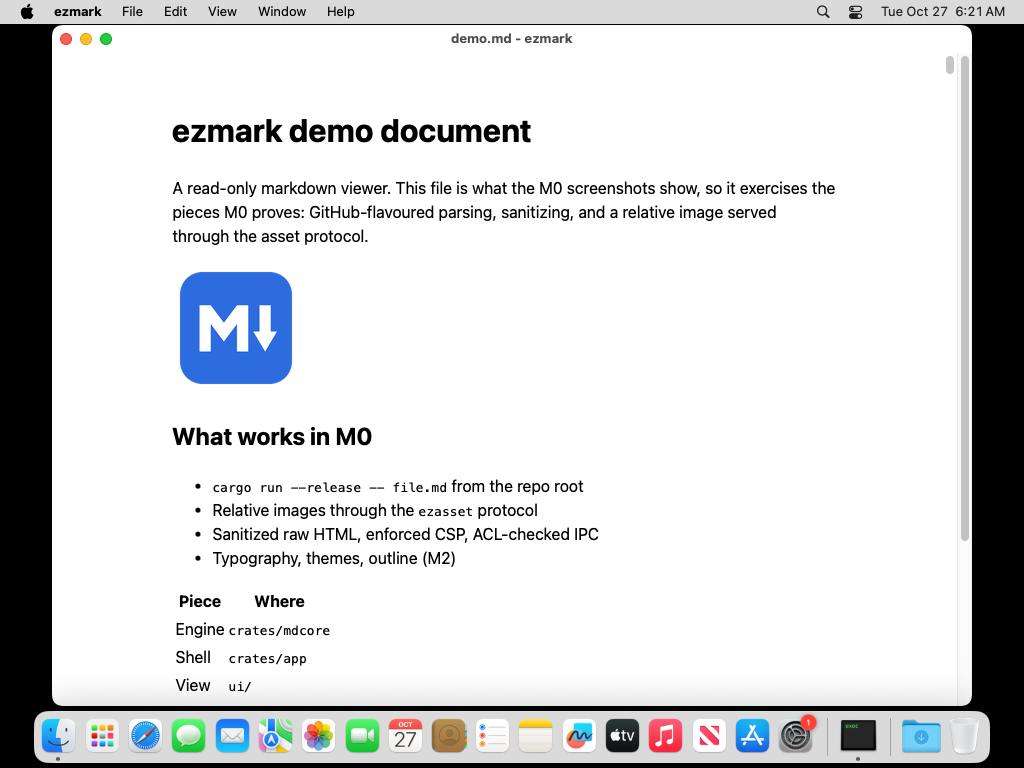
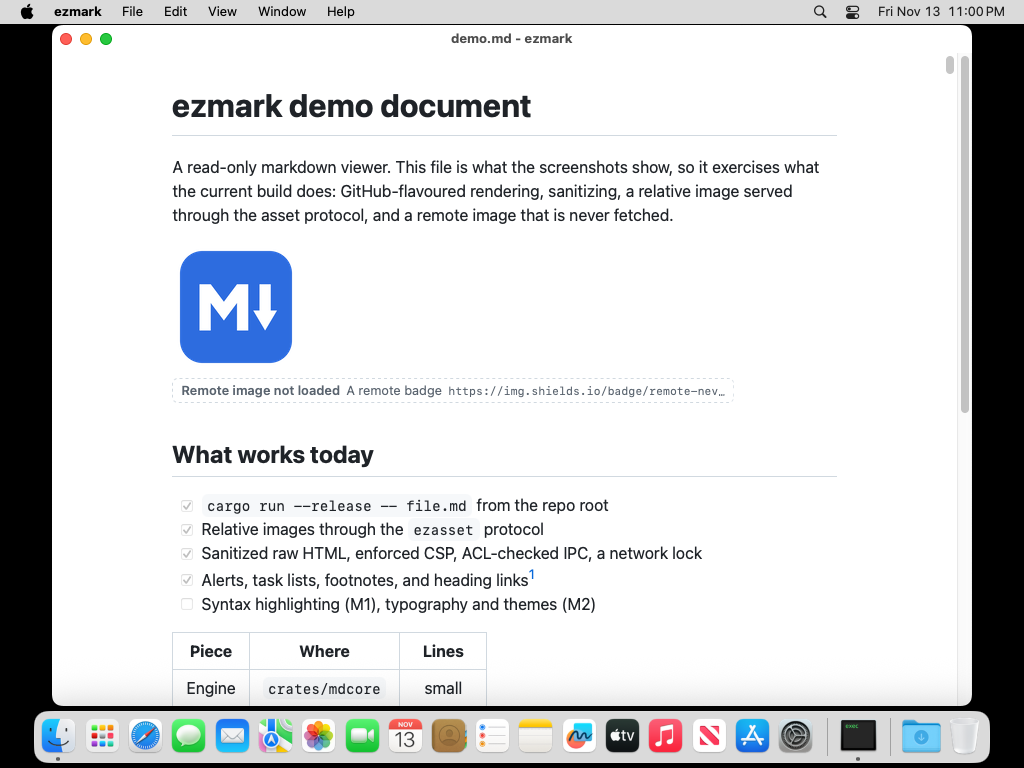
fix: drop the macOS proxy experiment and record what CI measured
The dead proxy on WKWebView's data store gave one stray connection in one
run and two in the next, so it is not kept and macOS 13 stays supported. The
docs now say the network lock is Windows-only and what macOS does without
one. Evidence updated from the first green run on both runners, with the
macOS screenshot from it.

diff --git a/tests/security/enforcement/speculative.html b/tests/security/enforcement/speculative.html
@@ -5,9 +5,9 @@
      frame-src refuses its load (the report arrives, and so does the
      connection). What stops both is the network lock, the webview's
      dead-proxy configuration in crates/app/src/main.rs. Pass condition: an
-     enforced frame-src report, and on Windows zero connections. WKWebView
-     with the same proxy still opens one connection to a loopback listener
-     (macos-15 runner, 2026-11-13), so on macOS the count is only reported. -->
+     enforced frame-src report, and on Windows zero connections. macOS has no
+     lock, and WKWebView opens two connections (macos-15 runner, 2026-11-13),
+     so there the count is only reported. -->
 <link rel="preconnect" href="{{LOOPBACK}}">
 <link rel="preconnect" href="{{LOOPBACK}}" crossorigin>
 <link rel="dns-prefetch" href="{{LOOPBACK}}">

diff --git a/crates/app/src/main.rs b/crates/app/src/main.rs
@@ -48,6 +48,10 @@ pub const MAIN_WINDOW: &str = "main";
 ///
 /// Setting any argument replaces wry's defaults, so its `--disable-features`
 /// list (no mini menu, no SmartScreen lookups) is repeated first.
+///
+/// There is no macOS counterpart. WKWebView takes no arguments; giving its
+/// data store the same dead proxy was tried on 2026-11-13 and made no
+/// reliable difference to the connections it opens (ADR 0003).
 #[cfg(windows)]
 const WEBVIEW2_ARGUMENTS: &str = concat!(
     "--disable-features=msWebOOUI,msPdfOOUI,msSmartScreenProtection",
@@ -145,28 +149,15 @@ fn create_main_window<R: Runtime>(app: &tauri::App<R>) -> tauri::Result<()> {
     } else {
         builder
     };
-    // The same idea for WKWebView, which takes no arguments: its data store
-    // is given the same proxy that does not exist (macOS 14 and later).
-    #[cfg(target_os = "macos")]
-    let builder = if network_lock() {
-        builder.proxy_url(Url::parse(DEAD_PROXY).expect("a valid URL"))
-    } else {
-        builder
-    };
     #[cfg(feature = "test-harness")]
     let builder = harness::configure_window(builder);
     builder.build()?;
     Ok(())
 }
 
-/// The proxy the network lock points the webview at: the loopback discard
-/// port, where nothing listens.
-#[cfg(target_os = "macos")]
-const DEAD_PROXY: &str = "http://127.0.0.1:9";
-
 /// Always on, except that the test harness can switch it off to prove what
 /// the CSP stops on its own.
-#[cfg(any(windows, target_os = "macos"))]
+#[cfg(windows)]
 fn network_lock() -> bool {
     #[cfg(feature = "test-harness")]
     let locked = harness::network_lock();

diff --git a/crates/app/tests/harness.rs b/crates/app/tests/harness.rs
@@ -565,9 +565,8 @@ fn speculative_connections_reach_no_listener() {
     assert_eq!(injected.matches("<link").count(), 4, "{injected}");
     let frame = enforced_report(&result, &loopback.origin);
     assert_eq!(frame["effectiveDirective"], "frame-src", "{frame:#}");
-    // WebView2's lock is complete. WKWebView's is not: with the same dead
-    // proxy it still opened one connection to this loopback listener on the
-    // macos-15 runner (two without the proxy), so there the count is
+    // The lock is WebView2's. WKWebView has none, and opens two connections
+    // to this listener on the macos-15 runner, so there the count is
     // reported, in the log and in docs/measurements.md, and not required.
     if cfg!(windows) {
         loopback.assert_untouched();

diff --git a/crates/app/src/harness.rs b/crates/app/src/harness.rs
@@ -168,7 +168,7 @@ impl OpenRecord {
 }
 
 /// Whether the webview gets the production network lock (see `main.rs`).
-#[cfg_attr(not(any(windows, target_os = "macos")), allow(dead_code))]
+#[cfg_attr(not(windows), allow(dead_code))]
 pub fn network_lock() -> bool {
     config().network_lock
 }

diff --git a/docs/m0-evidence.md b/docs/m0-evidence.md
@@ -13,8 +13,11 @@ not under the exact conditions the plan names), **moved** (to the External
 test milestone, plan section 17), **open**.
 
 Rows marked "local, 2026-11-13" were re-proven on the author's Windows machine
-after the changes that followed the 2026-11-13 audit (CHANGELOG). Their CI run
-on both runners is the first run of the commit that adds this sentence.
+after the changes that followed the 2026-11-13 audit (CHANGELOG), and passed
+on both runners in
+[run 43523201535](https://github.com/Vibin-LLC-2025/ezmark/actions/runs/43523201535)
+the same day: 12 real-app tests on each, the dependency audit, the Windows
+drag-and-drop, the Windows installer build, and both macOS cold opens.
 
 ## M0 row (plan section 10)
 
@@ -27,10 +30,10 @@ on both runners is the first run of the commit that adds this sentence.
 | Clean macOS run | moved | The `macos-15` runner is the proxy. The author's own Mac run is recorded here when done; the External test does the clean-machine run |
 | One real screenshot per OS | proven | [m0-windows.png](media/m0-windows.png) (local, production release build) and [m0-macos.png](media/m0-macos.png) (CI, `screencapture` on the runner) |
 | Asset protocol serves a relative image on both OSes | proven | `relative_image_is_served_through_the_asset_protocol` (local, 2026-11-13): three relative images load at 3x2, one of them named `100%.png`; an out-of-root image and a missing one each become a placeholder saying why; the handler refuses a crafted out-of-root reference and a previous asset scope. The out-of-root target is a valid PNG, so a decode failure cannot pass as a refusal; with the handler's root check removed, the test fails (local mutation check, 2026-10-27) |
-| macOS `RunEvent::Opened` buffering, cold Finder open of the bundled app | proven by proxy | CI: `cargo tauri build --bundles app` then `open -a ezmark.app file.md` on a cold start. Result: origin `opened-event`, `buffered: true`, document rendered. `open` uses the same Launch Services open-documents path as a Finder double-click. A second test asks Finder itself to open the file (`finder_open_is_buffered_and_replayed`); it needs permission to control Finder, so in CI it reports without failing the job. A real double-click is moved to the External test |
+| macOS `RunEvent::Opened` buffering, cold Finder open of the bundled app | proven by proxy | CI: `cargo tauri build --bundles app` then `open -a ezmark.app file.md` on a cold start. Result: origin `opened-event`, `buffered: true`, document rendered. `open` uses the same Launch Services open-documents path as a Finder double-click. A second test asks Finder itself to open the file (`finder_open_is_buffered_and_replayed`), which is what a double-click does without the mouse; it passed on the `macos-15` runner on 2026-11-13 ([run 43523201535](https://github.com/Vibin-LLC-2025/ezmark/actions/runs/43523201535)). It needs permission to control Finder, so a failure there would not fail the job. A real double-click by a person is moved to the External test |
 | Sanitized hostile fixture, both OSes | proven | `sanitized_hostile_fixture_runs_clean` (local, 2026-11-13): no scripts, inline handlers, script URLs, or frames in the DOM; no attribute naming a URL except a link's own target; every image replaced by a placeholder; a raw `<input>` forced to a disabled checkbox; ids prefixed; zero CSP reports; zero connections |
 | Enforcement fixture with an enforced CSP report naming the blocked URL and directive | proven | `enforcement_fixture_is_blocked_by_the_enforced_csp` requires a report whose `blockedURI` is exactly the fixture URL, with `img-src` and `enforce`. [Run 40461627894](https://github.com/Vibin-LLC-2025/ezmark/actions/runs/40461627894): WebView2 `{"blockedURI":"http://127.0.0.1:58927/enforcement-pixel.png","disposition":"enforce","effectiveDirective":"img-src","violatedDirective":"img-src"}`; WKWebView `{"blockedURI":"http://127.0.0.1:49187/enforcement-pixel.png","disposition":"enforce","effectiveDirective":"img-src","violatedDirective":"img-src"}` |
-| Enforcement corpus beyond one image (added 2026-11-13) | proven on Windows; on macOS proven except one speculative connection (see [measurements.md](measurements.md)) | Three more fixtures injected past the sanitizer. `enforcement_corpus_reaches_no_listener`, with the network lock off: 18 kinds of resource load and 8 script-driven requests, 27 enforced CSP reports, zero connections. `speculative_connections_reach_no_listener`: preconnect and dns-prefetch hints and a frame, zero connections with the network lock; without it WebView2 157 connects for the hints and for the frame (measured, see [measurements.md](measurements.md)). `navigation_attempts_never_leave_the_app_page`: link clicks, middle clicks, context menus, a `target=_blank` link, `window.open`, a form submit, a meta refresh, and `location`; the click handler cancels the clicks, `form-action` reports the form, the Rust guard denies the two navigations, the page stays, zero connections |
+| Enforcement corpus beyond one image (added 2026-11-13) | proven on Windows; on macOS proven except the speculative connections, where WKWebView opens two and there is no lock (see [measurements.md](measurements.md)) | Three more fixtures injected past the sanitizer. `enforcement_corpus_reaches_no_listener`, with the network lock off: 18 kinds of resource load and 8 script-driven requests, 27 enforced CSP reports, zero connections. `speculative_connections_reach_no_listener`: preconnect and dns-prefetch hints and a frame, zero connections with the network lock; without it WebView2 157 connects for the hints and for the frame (measured, see [measurements.md](measurements.md)). `navigation_attempts_never_leave_the_app_page`: link clicks, middle clicks, context menus, a `target=_blank` link, `window.open`, a form submit, a meta refresh, and `location`; the click handler cancels the clicks, `form-action` reports the form, the Rust guard denies the two navigations, the page stays, zero connections |
 | Blocked outbound attempt, listener positively verified | proven | Every loopback listener first accepts and counts its own connection; the assertion is zero connections beyond it |
 | Denied IPC call through the real webview IPC path | proven | Every harness run calls `harness_denied_probe`, enrolled in the ACL but granted to no capability. Rejected on both OSes (macOS: "harness_denied_probe not allowed. Permissions associated with this command: allow-harness-denied-probe"), and its body never ran |
 | Production artifact lacks the injection command, its ACL entry, and test assets | proven | CI `build` job: `check-release-artifact.sh absent` on both release binaries; the `test` job runs the same script with `present` on the harness build as the positive control |
@@ -46,7 +49,7 @@ on both runners is the first run of the commit that adds this sentence.
 | Relative paths against the invoking working directory | proven | Same test, plus the forwarded second launch |
 | Missing file: clear error, not a blank window | proven | `missing_file_shows_a_clear_error`: "File not found: <path>" rendered |
 | No argument: empty-state window | proven | `no_argument_shows_the_empty_state` |
-| Drag-drop onto the empty-state window | proven on Windows; macOS open | `scripts/dragdrop-windows.ps1` performs a real OLE drag of a file with a space and a non-ASCII character in its name from a source window onto the app window, with real mouse input, and requires origin `drag-drop` and the document rendered. Passed 3 of 3 runs on 2026-11-13, and again on the final build; CI runs it on `windows-2025`. macOS: not yet checked |
+| Drag-drop onto the empty-state window | proven on Windows; macOS open | `scripts/dragdrop-windows.ps1` performs a real OLE drag of a file with a space and a non-ASCII character in its name from a source window onto the app window, with real mouse input, and requires origin `drag-drop` and the document rendered. Passed 3 of 3 runs locally on 2026-11-13 and on the `windows-2025` runner in the same CI run. macOS: not yet checked |
 | macOS open events buffered and replayed | proven by proxy | See the cold-open row above |
 | Second launch forwarded with argv and cwd | proven | `second_launch_is_forwarded_to_the_running_instance` passes on both runners (the plugin covers macOS too) |
 | Raw `cargo run` registers no file associations | proven by construction | No code path writes associations; only `cargo tauri build` bundles declare them |
@@ -75,5 +78,5 @@ when a Mac is at hand, and recorded here when done:
 3. Build the app bundle and double-click a `.md` file in Finder with ezmark
    chosen in Open With (or run the `finder_open` test, which asks Finder to do
    the same).
-4. Run the `speculative` test and note how many connections reach the
-   listener; on the CI runner it was one, with the lock.
+4. Run the `speculative` test against a listener on another machine, with
+   and without a proxy set on the webview's data store (ADR 0003).

diff --git a/docs/CLONE-AND-RUN-PLAN.md b/docs/CLONE-AND-RUN-PLAN.md
@@ -374,7 +374,7 @@ Sections 1 to 16 are the plan as agreed on 2026-10-26 and are left as written. A
 - **Links keep `http` as well as `https` and `mailto`.** Links to local development servers are everywhere in READMEs, and a link that silently became plain text was a rendering bug with no safety benefit: no link ever navigates the webview. Network-path forms (`//host/x`, `\\host\x`) are now dropped from links, since a browser would resolve them to another host.
 - **A stray `%` is a literal character.** Section 7 rejected any `%` that did not start a valid escape. Browsers treat it as a literal, and a file named `100%.png` is ordinary. Decoding still happens exactly once and the decoded string is still what gets inspected, so nothing can hide behind the leniency. Decoded bytes that are not UTF-8 are still rejected.
 - **The CSP is tighter than section 7 states.** `style-src` no longer allows inline styles and `img-src` no longer allows `data:`. Nothing needs either: table alignment arrives as an `align` attribute and syntect will emit classes.
-- **The network claim has a second layer, the network lock.** Measured on 2026-11-13: WebView2 sends the request for a navigation before the Rust handler can deny it, opens a connection for a `preconnect` hint that no CSP directive governs, and opens one for a frame before `frame-src` refuses its load. All three need markup the sanitizer removes, but the claim should not rest on one layer. The webview now starts with a proxy that does not exist, with no exception for loopback addresses, with host name resolution switched off, and with the browser's background requests disabled. On macOS the same dead proxy is set on the webview's data store, which raises the minimum to macOS 14 (section 5 said 13). Measured in CI on 2026-11-13, WKWebView does not send the request for a denied navigation, and the proxy cut the connections for preconnect hints and a frame from two to one, so the lock is complete on Windows and partial on macOS.
+- **The network claim has a second layer on Windows, the network lock.** Measured on 2026-11-13: WebView2 sends the request for a navigation before the Rust handler can deny it, opens a connection for a `preconnect` hint that no CSP directive governs, and opens one for a frame before `frame-src` refuses its load. All three need markup the sanitizer removes, but the claim should not rest on one layer. The webview now starts with a proxy that does not exist, with no exception for loopback addresses, with host name resolution switched off, and with the browser's background requests disabled. macOS has no lock yet. Measured in CI on 2026-11-13, WKWebView does not send the request for a denied navigation, but opens two connections for preconnect hints and a frame; setting the same dead proxy on its data store was tried and made no reliable difference (ADR 0003).
 - **The webview's own menus and downloads are part of the contract.** Its built-in context menu on a link offers to save or open the link, which would fetch a URL the document chose. The menu is suppressed on links, and every download is refused in Rust.
 - **Document ids are namespaced.** Every `id` and `<a name>` a document supplies gets the prefix `user-content-`, as on GitHub, so a document cannot shadow the app's own elements; fragment links get the same prefix.
 - **A repository root that is too broad is not adopted.** If the enclosing `.git` is at a filesystem root, or at or above the user's home directory, the root is the document's own folder instead.

diff --git a/docs/adr/0003-security-contract.md b/docs/adr/0003-security-contract.md
@@ -20,8 +20,8 @@ Defense in depth, with every layer testable:
 
 1. **No network.** The v1 binary makes no network connections. Remote
    resources referenced by a document are never loaded; the CSP `img-src`
-   allows only the app's asset scheme. The webview also runs behind a
-   network lock (below), complete on Windows and partial on macOS. Opt-in remote loading is a v1.1 decision
+   allows only the app's asset scheme. On Windows the webview also runs
+   behind a network lock (below). Opt-in remote loading is a v1.1 decision
    with its own ADR.
 2. **Sanitizer.** Everything that leaves `mdcore` is sanitized by ammonia.
    URL-bearing attributes are covered on every element. Links keep only
@@ -92,15 +92,17 @@ changed the contract in these ways. Each has a fixture or a unit test.
   are answered in-process and are unaffected. With the lock, the same three
   fixtures reach no listener.
 
-  WKWebView takes no arguments, so on macOS the lock is the same dead proxy
-  set on the webview's data store, which needs macOS 14. Measured on the
-  `macos-15` runner on 2026-11-13: WKWebView does not send a request for a
-  navigation the handler denies, with or without the lock; for the
-  preconnect-and-frame fixture it opened two connections without the lock and
-  one with it. The listener is on a loopback address, which the proxy setting
-  may exempt, so whether a remote host would see that one connection is not
-  known. The lock on macOS is therefore partial, and the test reports the
-  count there instead of requiring zero.
+  macOS has no lock. Measured on the `macos-15` runner on 2026-11-13:
+  WKWebView does not send a request for a navigation the handler denies, so
+  that leak is WebView2's alone, but for the preconnect-and-frame fixture it
+  opens two connections. WKWebView takes no arguments. Setting the same dead
+  proxy on its data store (a macOS 14 API) was tried: one run showed one
+  connection and the next showed two, so it was not kept, since it would have
+  cost macOS 13 support for no reliable gain. The listener is on a loopback
+  address, which that setting may exempt, so a test against another machine
+  is the next thing to try. Until then the sanitizer is the only layer
+  between a document and those two connections on macOS, and the test
+  reports the count there instead of requiring zero.
 - **`http` links are kept.** They were dropped, which made every link to a
   local development server dead text, and bought nothing: no link navigates
   the webview. Network-path links (`//host/x`, `\\host\x`) are dropped,

diff --git a/README.md b/README.md
@@ -51,7 +51,6 @@ the file changes, or render differently from GitHub. ezmark aims to be:
 
 - Rust via [rustup](https://rustup.rs/).
 - Xcode Command Line Tools: `xcode-select --install`.
-- macOS 14 or later.
 - Tested on: macOS 15 on Apple Silicon, in CI. No other version is claimed yet.
 
 **Both:** git. Nothing else.
@@ -94,12 +93,11 @@ full contract is [ADR 0003](docs/adr/0003-security-contract.md).
 
 "No network" is stated at the level of the evidence. The CSP blocks remote
 loads, the app code makes no network calls, and no network plugins are
-enabled. The webview also runs behind a network lock: its only route out is
-a proxy that does not exist, because testing showed both system webviews
-making connections of their own that no content policy governs (on WebView2 a
-refused navigation still sends its request, and on both a preconnect hint
-connects). On Windows the lock is complete in every test; on macOS it is
-partial (see the limitations below). The CI
+enabled. On Windows the webview also runs behind a network lock: its only
+route out is a proxy that does not exist, because testing showed WebView2
+making connections of its own that no content policy governs (a refused
+navigation still sends its request, and a preconnect hint connects). macOS
+has no such lock yet (see the limitations below). The CI
 security harness injects every kind of load and navigation past the sanitizer
 and requires that none reaches a listener.
 
@@ -133,11 +131,10 @@ Report vulnerabilities privately: see [SECURITY.md](SECURITY.md).
   square of the depth, so such a file is shown unrendered, with a note.
 - **A slow render cannot be stopped yet**, only superseded by opening another
   file. The window says "Still rendering" while it waits. A stop action is M3.
-- **The network lock is complete on Windows and partial on macOS.** With
-  the same dead proxy, WKWebView still opened one connection to a local test
-  listener for markup injected past the sanitizer (a preconnect hint or a
-  frame). A document cannot produce that markup; see the security section.
-- **macOS 14 or later.** The lock uses a WebKit setting that macOS 13 lacks.
+- **The network lock is Windows-only.** On macOS, markup injected past the
+  sanitizer (a preconnect hint, a frame) made WKWebView open two connections
+  to a local test listener. A document cannot produce that markup, so this is
+  a missing second layer, not a hole; see the security section.
 
 ## Scope
 

diff --git a/CHANGELOG.md b/CHANGELOG.md
@@ -38,7 +38,7 @@ amended in its section 17, and the security contract in ADR 0003.
 
 #### Security
 
-- **A network lock for the webview.** New tests injected every kind
+- **A network lock for the webview (Windows).** New tests injected every kind
   of load and navigation past the sanitizer, and three reached the test
   listener on WebView2 157: a navigation the Rust guard denied had already
   sent its request, a `preconnect` hint opened a connection no CSP directive
@@ -46,9 +46,9 @@ amended in its section 17, and the security contract in ADR 0003.
   reachable from a document, because the sanitizer removes the markup, but
   the layers are meant to hold independently. The webview now starts with a
   proxy that does not exist, no loopback exception, no host name resolution,
-  and background requests off. WKWebView gets the same dead proxy; there it
-  cut the stray connections from two to one, so the lock is complete on
-  Windows and partial on macOS. It needs macOS 14, the new minimum.
+  and background requests off. macOS has none yet: WKWebView does not leak a
+  denied navigation, but opens two connections for hints and a frame, and a
+  dead proxy on its data store made no reliable difference.
 - **ammonia 4.2.4 to 4.2.5** for RUSTSEC-2026-0533 (mutation XSS), found by
   the new `cargo deny` job.
 - **The webview's menu and downloads.** The built-in context menu on a link

diff --git a/ARCHITECTURE.md b/ARCHITECTURE.md
@@ -33,7 +33,7 @@ M1 adds highlighting (syntect), front matter, and image dimensions here.
 ### `crates/app` (binary `ezmark`)
 
 - `main.rs`: builder wiring, the main window, the navigation guard, the
-  download refusal, the network lock, drag-drop, and macOS
+  download refusal, the WebView2 network lock, drag-drop, and macOS
   `RunEvent::Opened`.
 - `launch.rs`: argv parsing (`--help`, `--version`, one file), and telling the
   user something when there is no window and maybe no console. Relative paths
@@ -127,9 +127,9 @@ code. Breaking one is a security bug.
 5. The webview never navigates away from the app origin, opens no window, and
    downloads nothing.
 6. The CSP allows images only from the asset scheme, scripts and styles only
-   from the bundle, and nothing in the app opens a network connection. The
-   webview's network stack is pointed at a proxy that does not exist (the
-   network lock: complete on Windows, partial on macOS).
+   from the bundle, and nothing in the app opens a network connection. On
+   Windows the webview's network stack is pointed at a proxy that does not
+   exist (the network lock).
 7. Nothing from the `test-harness` feature appears in a production binary.
 8. A document's ids, names, and classes cannot collide with the app's own:
    ids and names are prefixed, and only a fixed list of classes survives.

diff --git a/docs/measurements.md b/docs/measurements.md
@@ -103,8 +103,9 @@ these.
 
 The same tests on WKWebView (`macos-15` runner, CI, 2026-11-13): the resource
 loads and script-driven requests reach nothing, as on Windows. A denied
-navigation sends no request, lock or no lock. The preconnect hints and the
-frame opened two connections without the lock and one with it. Before the right-click menu was suppressed on links, choosing "Save
+navigation sends no request. The preconnect hints and the frame open two
+connections. macOS has no lock; a dead proxy on the webview's data store was
+tried and gave one connection in one run and two in the next. Before the right-click menu was suppressed on links, choosing "Save
 link as" in the production build opened two connections to a listener.
 
 **What the process tree does on its own.** `scripts/netwatch-windows.ps1`
